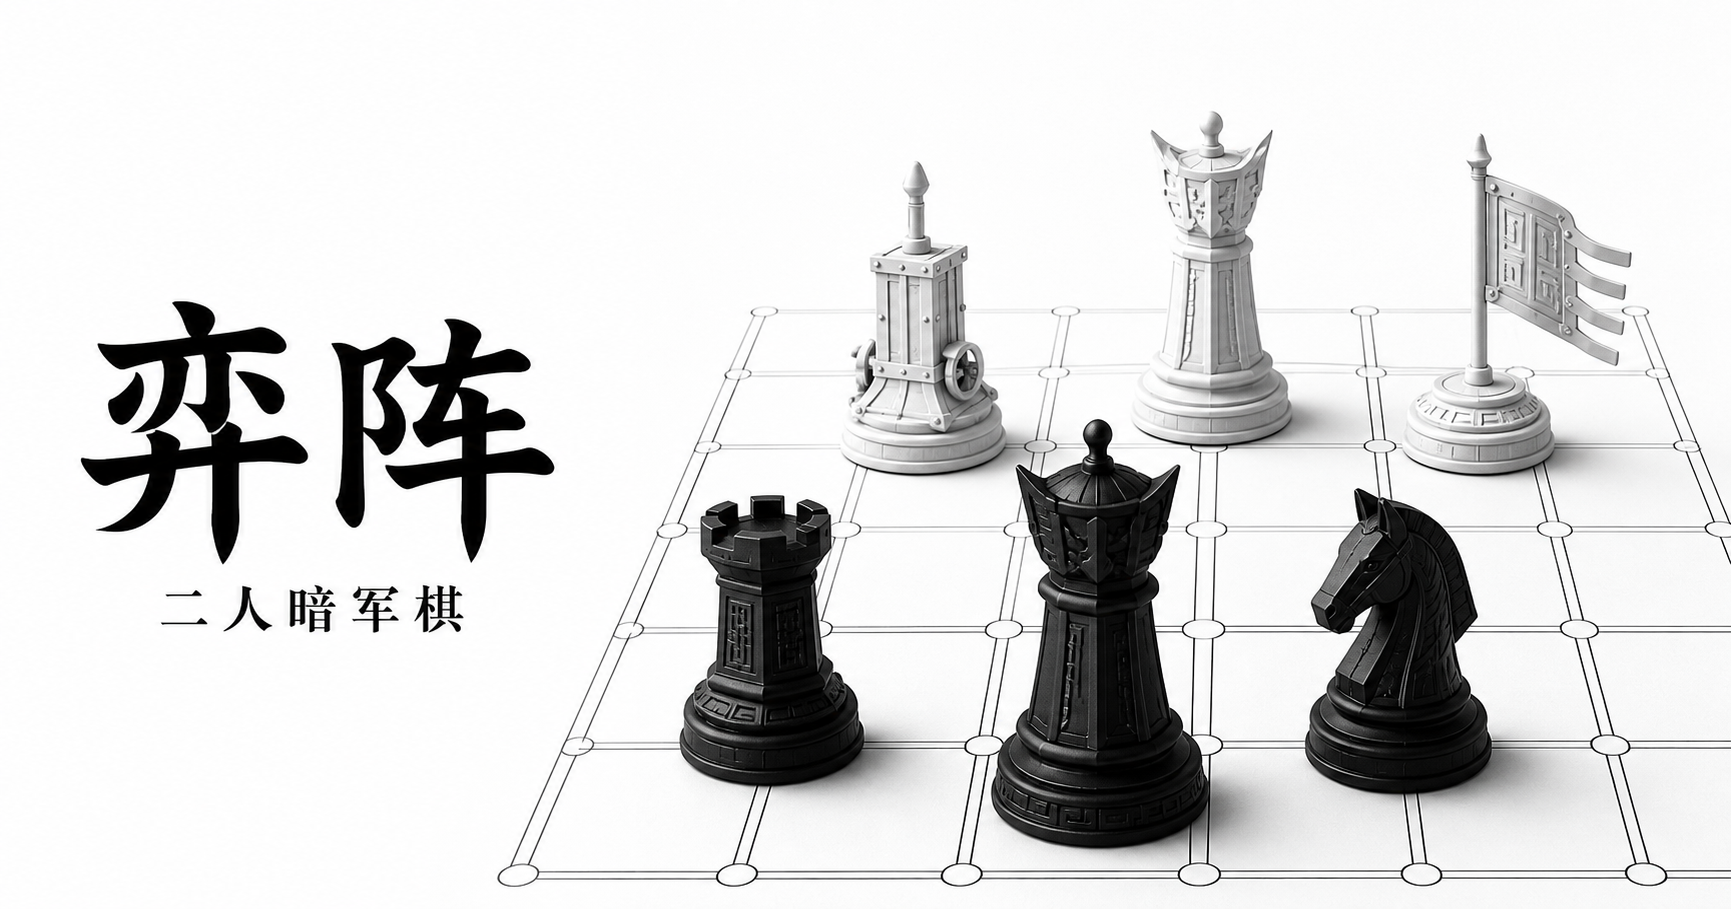
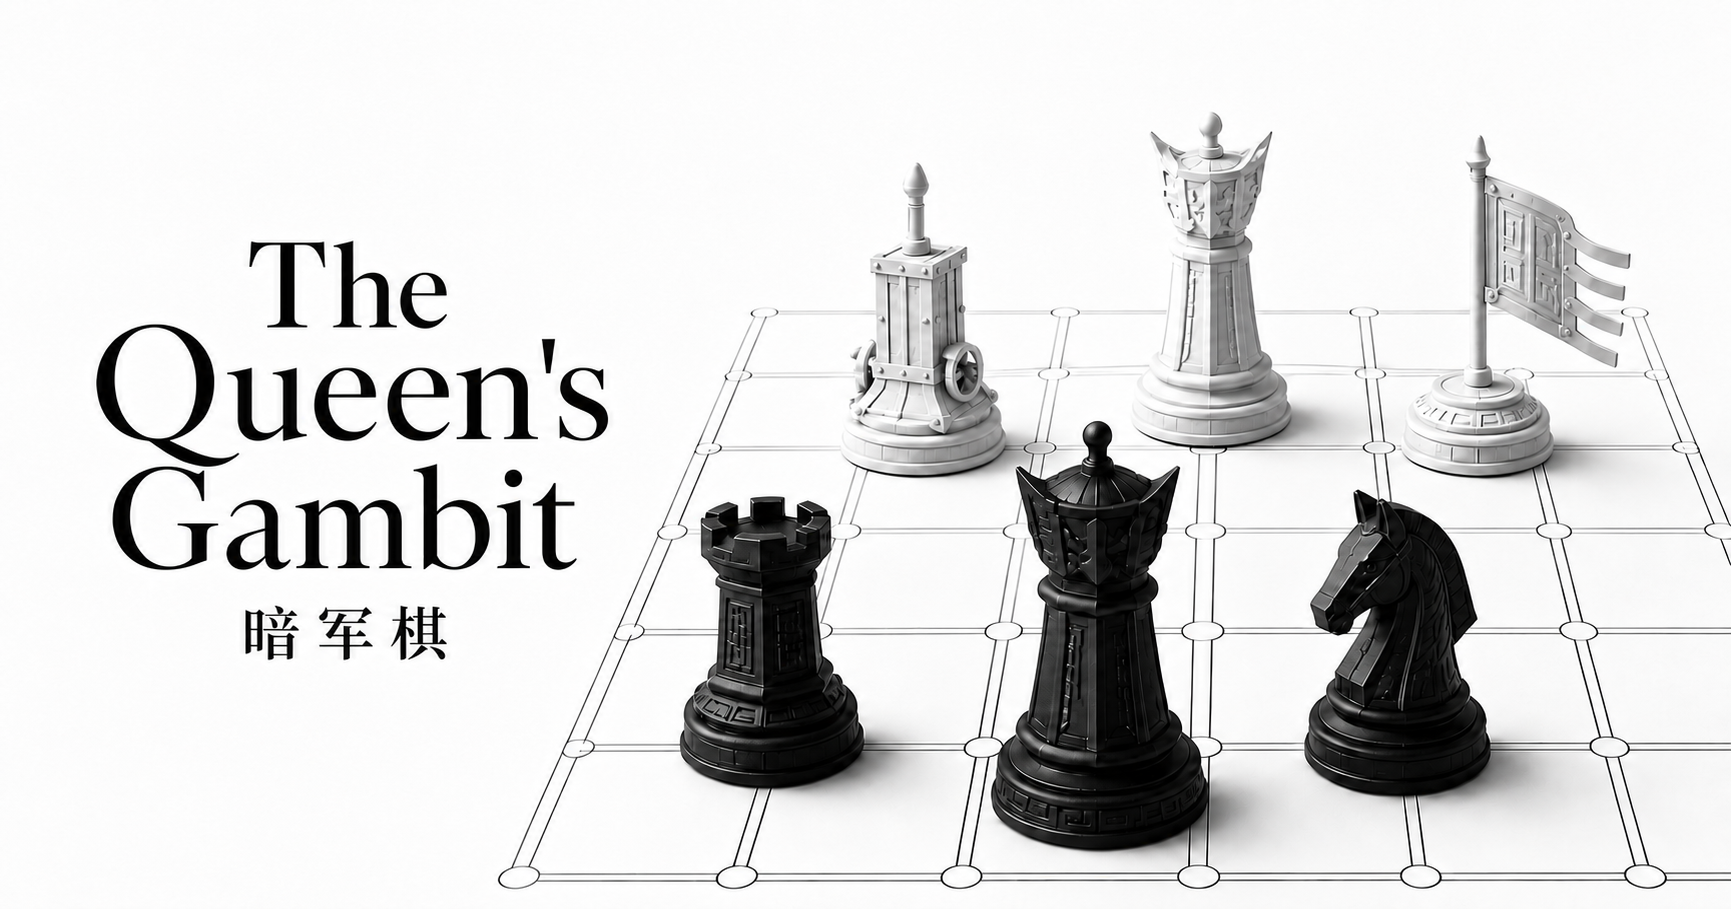
Rename game to The Queen's Gambit

diff --git a/app/GameApp.tsx b/app/GameApp.tsx
@@ -268,7 +268,10 @@ function Landing({ onCreate, creating, onOpen }: { onCreate: () => void; creatin
   return (
     <main className="landing">
       <section className="landing-core">
-        <h1>弈阵</h1>
+        <h1>
+          <span>The Queen&apos;s</span>
+          <span>Gambit</span>
+        </h1>
         <p>暗军棋</p>
         <div className="landing-actions">
           <button className="button primary" type="button" onClick={onCreate} disabled={creating}>
@@ -568,7 +571,7 @@ export default function GameApp({ hasRoom = false }: { hasRoom?: boolean }) {
   if (loading) {
     return (
       <main className="loading-screen">
-        <span className="loading-mark">阵</span>
+        <span className="loading-mark">Q</span>
         <p>正在展开棋盘</p>
       </main>
     );
@@ -595,8 +598,8 @@ export default function GameApp({ hasRoom = false }: { hasRoom?: boolean }) {
     <main className="room-page">
       <header className="room-header">
         <button className="wordmark wordmark-button" type="button" onClick={leaveRoom}>
-          <span className="wordmark-mark">阵</span>
-          <span>弈阵</span>
+          <span className="wordmark-mark">Q</span>
+          <span>The Queen&apos;s Gambit</span>
         </button>
         <div className="room-identity">
           <span className="room-code">{displayCode(room.code)}</span>

diff --git a/app/layout.tsx b/app/layout.tsx
@@ -7,7 +7,7 @@ export async function generateMetadata(): Promise<Metadata> {
   const host = requestHeaders.get("x-forwarded-host") ?? requestHeaders.get("host") ?? "localhost:3000";
   const protocol = requestHeaders.get("x-forwarded-proto") ?? (host.startsWith("localhost") ? "http" : "https");
   const imageUrl = `${protocol}://${host}/og.png`;
-  const title = "弈阵";
+  const title = "The Queen's Gambit";
   const description = "在线二人暗军棋";
   return {
     title,
@@ -16,7 +16,7 @@ export async function generateMetadata(): Promise<Metadata> {
       title,
       description,
       type: "website",
-      images: [{ url: imageUrl, width: 1792, height: 1024, alt: "弈阵二人暗军棋" }],
+      images: [{ url: imageUrl, width: 1792, height: 1024, alt: "The Queen's Gambit 暗军棋" }],
     },
     twitter: {
       card: "summary_large_image",

diff --git a/app/globals.css b/app/globals.css
@@ -71,7 +71,7 @@ summary:focus-visible {
   border-radius: 10px;
   background: var(--black);
   color: var(--white);
-  font-family: "Songti SC", SimSun, serif;
+  font-family: "Iowan Old Style", Baskerville, "Times New Roman", serif;
   font-size: 16px;
 }
 
@@ -83,17 +83,21 @@ summary:focus-visible {
 }
 
 .landing-core {
-  width: min(320px, 100%);
+  width: min(520px, 100%);
   text-align: center;
 }
 
 .landing-core h1 {
   margin: 0;
-  font-family: "Songti SC", STSong, SimSun, serif;
-  font-size: clamp(64px, 13vw, 92px);
+  font-family: "Iowan Old Style", Baskerville, "Times New Roman", serif;
+  font-size: clamp(48px, 9vw, 76px);
   font-weight: 500;
-  letter-spacing: -0.08em;
-  line-height: 1;
+  letter-spacing: -0.065em;
+  line-height: 0.92;
+}
+
+.landing-core h1 span {
+  display: block;
 }
 
 .landing-core > p {

diff --git a/README.md b/README.md
@@ -1,4 +1,4 @@
-# 弈阵
+# The Queen's Gambit
 
 在线二人暗军棋，支持玩家邀请和观战链接。
 
